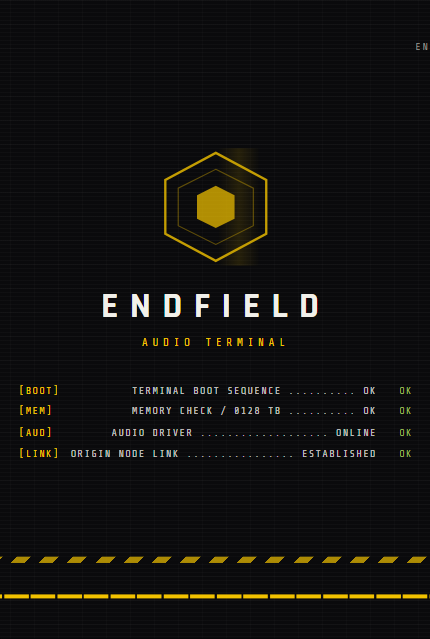
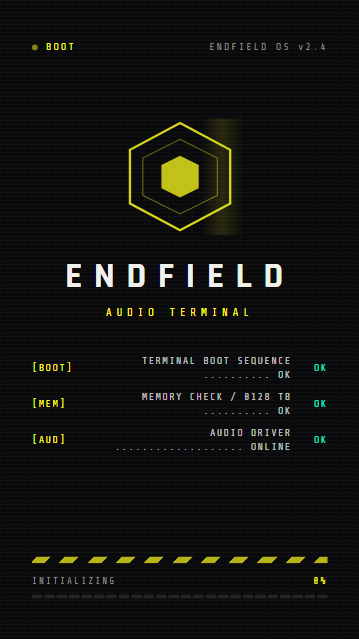
docs: refresh interface preview to v1.3.2 (8 screens incl. search & settings/custom palette); asset name sync

diff --git a/README.md b/README.md
@@ -16,11 +16,11 @@
 
 - **本地歌曲导入**：从设备文件系统批量导入音频，曲库持久化存储在浏览器 IndexedDB
 - **专辑封面解析**：用 `music-metadata` 解析 ID3 / FLAC / MP4 / OGG / WAV / APE 等标签与内嵌封面；无内嵌封面时以 iTunes Search 兜底搜索
-- **三 Tab 界面 + 手势滑动切换**：曲库 / 歌单 / 正在播放，支持底部导航点击或左右滑动切换
+- **五视图界面 + 手势滑动切换**：曲库 / 歌单 / 搜索 / 正在播放 / 设置，支持底部 Dock 点击或左右滑动切换
 - **正在播放面板**：ARTWORK（封面 + 播放扫描动画）/ LYRICS 双面板，分段刻度进度条、循环 / 随机 / 单曲三种播放模式
 - **播放队列**：底部上滑队列面板，可查看队列、移除曲目；支持收藏与自定义歌单（IndexedDB 持久化）
 - **同步歌词**：内置 LRC 解析器（时间戳 / offset 标签），播放时逐行高亮并自动滚动居中
-- **后台播放与锁屏控制**：基于 Media Session 的 Android 前台媒体服务，锁屏 / 通知栏显示歌曲、封面、进度并可控制（播放 / 暂停 / 上下曲 / ±10s 快进快退 / 拖动进度）
+- **后台播放与锁屏控制**：基于 Media Session 的 Android 前台媒体服务，锁屏 / 通知栏显示歌曲、封面、进度并可控制（播放 / 暂停 / 上下曲 / ±10s 快进快退 / **拖动进度即时同步**）
 - **终末地风格启动动画**：六边形徽章脉冲 + 扫描光带 + 逐行 BOOT 日志 + 24 段进度条，约 2.6 秒，可点击跳过
 - **终末地风格应用图标**：自绘黄黑六边形徽章 + 双八分音符 + 频谱条 + 警戒条纹，全套 Android 自适应图标
 - **Android / ColorOS 17 适配**：沉浸式状态栏与导航栏、安全区预留（`pt-safe` / `pb-safe`）、深色主题、通知权限运行时请求
@@ -28,13 +28,14 @@
 
 ## 界面预览
 
-> 截图取自 Android 同构的 Web 预览（430px 手机布局），与实际 APK 界面一致。
+> 截图取自 Android 同构的 Web 预览（手机竖屏布局），与实际 APK 界面一致；均为标准终端黄黑主题。
 
 | | |
 | --- | --- |
-| **① 启动动画** —— 六边形徽章脉冲、BOOT 逐行自检日志、24 段进度条，点击可跳过。<br><br><img src="docs/screenshots/cropped/01-boot.png" width="220" alt="启动动画" /> | **② 曲库** —— 本地曲库列表与曲目信息，右上角「导入曲目」批量导入音频。<br><br><img src="docs/screenshots/cropped/03-library.png" width="220" alt="曲库页" /> |
-| **③ 歌单** —— 收藏清单与自定义歌单，支持新建、展开、播放、移除。<br><br><img src="docs/screenshots/cropped/04-playlists.png" width="220" alt="歌单页" /> | **④ 正在播放（ARTWORK）** —— 封面 / 格式参数 / 分段进度条 / 传输控制；播放时封面带扫描线与旋转工程环。<br><br><img src="docs/screenshots/cropped/05-nowplaying.png" width="220" alt="正在播放页" /> |
-| **⑤ 播放队列** —— 从正在播放页右上角 QUEUE 上滑呼出，查看与移除队列曲目。<br><br><img src="docs/screenshots/cropped/06-queue.png" width="220" alt="队列面板" /> | **⑥ 歌词面板（LYRICS）** —— ARTWORK / LYRICS 切换，LRC 歌词逐行高亮同步滚动；无歌词时提示。<br><br><img src="docs/screenshots/cropped/07-lyrics.png" width="220" alt="歌词面板" /> |
+| **① 启动动画** —— 六边形徽章脉冲、BOOT 逐行自检日志、24 段进度条，点击可跳过。<br><br><img src="docs/screenshots/cropped/01-boot.png" width="220" alt="启动动画" /> | **② 曲库** —— 本地曲库列表与曲目信息，右上角「导入曲目」批量导入音频；底部毛玻璃 Dock 常驻。<br><br><img src="docs/screenshots/cropped/03-library.png" width="220" alt="曲库页" /> |
+| **③ 歌单** —— 收藏清单与自定义歌单，支持新建、展开、播放、移除。<br><br><img src="docs/screenshots/cropped/04-playlists.png" width="220" alt="歌单页" /> | **④ 搜索** —— Dock 中央搜索按钮进入全域检索，按歌曲 / 艺术家 / 专辑 / 歌单过滤，点击才唤起键盘。<br><br><img src="docs/screenshots/cropped/08-search.png" width="220" alt="搜索页" /> |
+| **⑤ 正在播放（ARTWORK）** —— 封面 / 格式参数 / 分段进度条 / 传输控制；播放时封面带扫描线与旋转工程环，页面固定在 Dock 之上。<br><br><img src="docs/screenshots/cropped/05-nowplaying.png" width="220" alt="正在播放页" /> | **⑥ 歌词面板（LYRICS）** —— ARTWORK / LYRICS 切换，LRC 歌词逐行高亮同步滚动；无歌词时提示。<br><br><img src="docs/screenshots/cropped/07-lyrics.png" width="220" alt="歌词面板" /> |
+| **⑦ 播放队列** —— 从正在播放页右上角 QUEUE 上滑呼出，查看与移除队列曲目。<br><br><img src="docs/screenshots/cropped/06-queue.png" width="220" alt="队列面板" /> | **⑧ 设置 · 自定义配色** —— 标准终端 / 棱镜频谱 / 自定义三主题；自绘 HSV 调色器（饱和度亮度板 + 色相条 + HEX 直输）+ 12 预设色板，实时生效并持久化。<br><br><img src="docs/screenshots/cropped/09-settings.png" width="220" alt="设置页" /> |
 
 ## 使用方式
 
@@ -48,9 +49,9 @@
 4. **收藏与歌单**：曲库行内可点 **收藏**（加入「收藏」清单）或 **加入歌单**（可即时新建）；「歌单」Tab 内管理清单。
 5. **滑动切换界面**：在主体区域**左右滑动**即可在 曲库 ↔ 歌单 ↔ 搜索 ↔ 正在播放 ↔ 设置 之间切换（底部导航点击同样可用）；滑入搜索页时**不会自动弹出键盘**，点击搜索框才唤起。
 6. **搜索**：底部 Dock 中央的搜索按钮进入全域检索，按关键词过滤本地曲库（歌曲 / 艺术家 / 专辑）与歌单，结果可直接播放或加入队列。
-7. **主题设置**：「设置」Tab 内可在 **标准终端**（柠檬黄/黑/暖白，默认）、**棱镜频谱**（亮粉/青绿/明黄）与 **自定义** 之间切换；自定义主题通过取色器 / 预设色板自由调配主色、辅助色、点缀色，实时生效并持久化保存；主题覆盖全部界面——含启动动画、警戒条纹、歌词高亮、滚动条、进度控件与底部 Dock。
+7. **主题设置**：「设置」Tab 内可在 **标准终端**（柠檬黄/黑/暖白，默认）、**棱镜频谱**（亮粉/青绿/明黄）与 **自定义** 之间切换；自定义主题通过自绘 HSV 调色器（饱和度/亮度板 + 色相条 + HEX 直输）与 12 预设色板自由调配主色、辅助色、点缀色，实时生效并持久化保存；主题覆盖全部界面——含启动动画、警戒条纹、歌词高亮、滚动条、进度控件与底部 Dock。
 8. **纯色背景切换**：设置页可切换 **黑色 / 白色** 纯色外壳；浅色模式下前景、卡片、网格、玻璃 Dock 与播放条自动适配明暗。
-9. **底部 Dock（ColorOS 17 规范）**：毛玻璃悬浮胶囊（图标 + 文字说明），中央搜索按钮；Dock 悬浮于安卓系统手势条（安全区）之上，内容滚动到 Dock 下方时透出毛玻璃模糊；播放中的 **MiniPlayer 为毛玻璃悬浮胶囊**，位于 Dock 上方，与参考布局一致。
+9. **底部 Dock（ColorOS 17 规范）**：毛玻璃胶囊（图标 + 文字说明），中央搜索按钮；Dock 位于系统手势条（安全区）之上且为**底部固定层**——内容滚动区域自动收缩在 Dock 上方，任何控件都不会被 Dock 遮挡或拦截点击；播放中的 **MiniPlayer 为毛玻璃悬浮胶囊**，位于 Dock 上方。
 10. **后台播放与锁屏控制（Android）**：播放中退到后台/锁屏后，通知栏与锁屏界面显示歌曲、封面与进度；支持播放 / 暂停 / 上一曲 / 下一曲 / ±10 秒快进快退 / 拖动进度。修复了锁屏/系统媒体控件调节无效的问题（媒体按键与传输控制标志、seek 回调字段对齐）。首次安装 Android 13+ 会请求通知权限。
 11. **重启恢复**：曲库、歌单、播放模式、音量、主题与背景偏好持久化保存，重新打开应用自动恢复。
 
@@ -58,8 +59,8 @@
 
 | 版本 | 说明 | 下载 |
 | --- | --- | --- |
-| v1.3.2 (release) | 正式签名版，适用于日常安装；**Dock 改为底部固定层（内容永不遮挡/可点）、锁屏拖动进度条时间即时同步、预设色板移至高区** | [EndfieldMusicTerminal-v1.0.apk](https://github.com/TATHPE/endfield-music-terminal/releases/download/v1.0.0/EndfieldMusicTerminal-v1.0.apk) |
-| v1.3.2 (debug) | 调试签名版，仅用于体验；**同 v1.3.2 修复内容** | [EndfieldMusicTerminal-v1.0-debug.apk](https://github.com/TATHPE/endfield-music-terminal/releases/download/v1.0.0/EndfieldMusicTerminal-v1.0-debug.apk) |
+| v1.3.2 (release) | 正式签名版，适用于日常安装；**Dock 改为底部固定层（内容永不遮挡/可点）、锁屏拖动进度条时间即时同步、预设色板移至高区** | [EndfieldMusicTerminal-v1.3.2.apk](https://github.com/TATHPE/endfield-music-terminal/releases/download/v1.0.0/EndfieldMusicTerminal-v1.3.2.apk) |
+| v1.3.2 (debug) | 调试签名版，仅用于体验；**同 v1.3.2 修复内容** | [EndfieldMusicTerminal-v1.3.2-debug.apk](https://github.com/TATHPE/endfield-music-terminal/releases/download/v1.0.0/EndfieldMusicTerminal-v1.3.2-debug.apk) |
 
 > ColorOS 17 侧载时若提示「未知来源」，在设置中允许安装即可。
 
